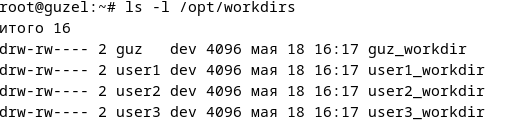
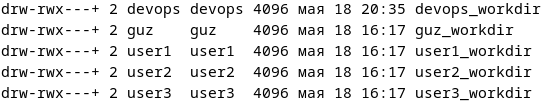
Исправление ДЗ №1 по скрипту: установлена primary группа с именем пользователя, через аудит добавлены права группе dev

diff --git a/README.md b/README.md
@@ -28,6 +28,10 @@
 
 ![6](images/6.png)
 
+Информация о пользователе
+
+![6.1](images/6.1.png)
+
 Проверяем параметры:
 
 ![7](images/7.png)
